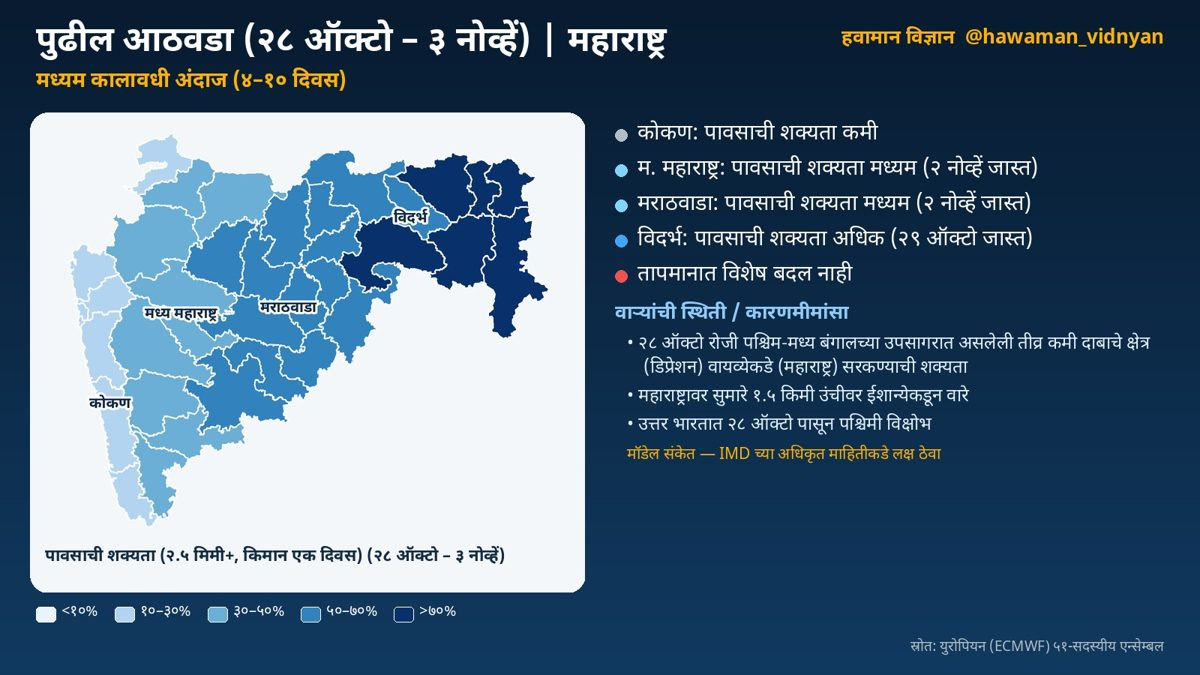
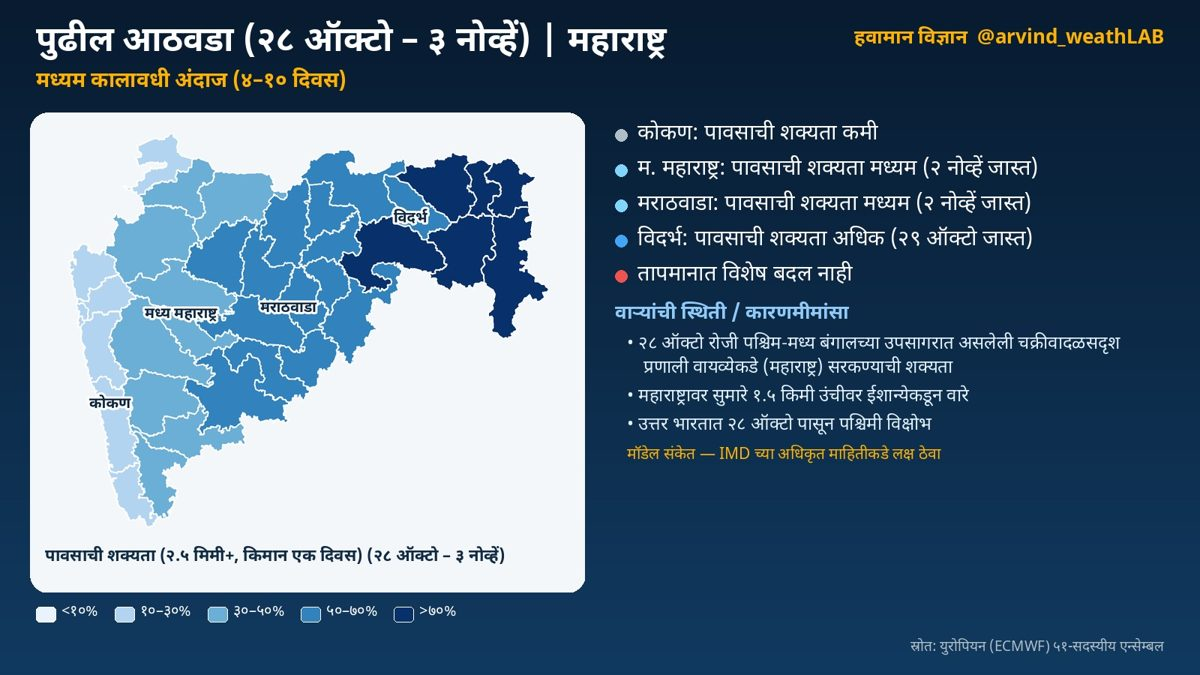
इशारा 2026-10-25 (हवामान विज्ञान)

Changed region(s): [[0.6783, 0.0311, 0.9867, 0.0933], [0.5242, 0.5289, 0.8017, 0.56], [0.8325, 0.4978, 0.9558, 0.5289]]

diff --git a/docs/alerts/2026-10-25-hawaman/index.html b/docs/alerts/2026-10-25-hawaman/index.html
@@ -8,7 +8,7 @@
   <link rel="preconnect" href="https://fonts.googleapis.com">
   <link rel="preconnect" href="https://fonts.gstatic.com" crossorigin>
   <link href="https://fonts.googleapis.com/css2?family=Mukta:wght@400;500;600;700&family=Noto+Serif+Devanagari:wght@600;700&display=swap" rel="stylesheet">
-  <link rel="stylesheet" href="../../static/css/style.css?v=74276dd4">
+  <link rel="stylesheet" href="../../static/css/style.css?v=290eacb5">
 </head>
 <body>
   <header class="site-header">
@@ -46,15 +46,15 @@
 🌦 म. महाराष्ट्र: मध्यम<br />
 🌦 मराठवाडा: मध्यम<br />
 🌧 विदर्भ: अधिक<br />
-🌀 २८ ऑक्टो रोजी पश्चिम-मध्य बंगालच्या उपसागरात असलेली तीव्र कमी दाबाचे क्षेत्र वायव्येकडे सरकण्याची शक्यता</p>
+🌀 २८ ऑक्टो रोजी पश्चिम-मध्य बंगालच्या उपसागरात असलेली चक्रीवादळसदृश प्रणाली वायव्येकडे सरकण्याची शक्यता</p>
 <p><img src="../../static/images/alerts/2026-10-25/1_card.jpg" alt="मध्यम कालावधी अंदाज" /></p>
 <h3>हवामानामागचे कारण</h3>
 <p>🌀 वाऱ्यांची स्थिती व कारणमीमांसा:<br />
-• २८ ऑक्टो रोजी पश्चिम-मध्य बंगालच्या उपसागरात असलेली तीव्र कमी दाबाचे क्षेत्र (डिप्रेशन) वायव्येकडे (महाराष्ट्र) सरकण्याची शक्यता (मॉडेल संकेत; IMD च्या अधिकृत माहितीकडे लक्ष ठेवा). या प्रणालीमुळे राज्यात ढगाळ हवामान व पावसाची शक्यता वाढू शकते</p>
-<p>• २८ ऑक्टो रोजी पूर्व भारतावर असलेली तीव्र कमी दाबाचे क्षेत्र (डिप्रेशन) नैऋत्येकडे (महाराष्ट्र) सरकण्याची शक्यता (मॉडेल संकेत; IMD च्या अधिकृत माहितीकडे लक्ष ठेवा)</p>
-<p>• महाराष्ट्रावर १ नोव्हें दरम्यान कमी दाबाचे क्षेत्र तयार होण्याचे संकेत; प्रणाली दक्षिणेकडे (पूर्व-मध्य अरबी समुद्र) सरकण्याची शक्यता<br />
-• महाराष्ट्रावर सुमारे १.५ किमी उंचीवर ईशान्येकडून वारे</p>
-<p>• उत्तर भारतात २८ ऑक्टो पासून पश्चिमी विक्षोभ; तो पुढे सरकल्यानंतर उत्तरेकडील थंड वाऱ्यांमुळे राज्यात किमान तापमानात घट होऊ शकते<br />
+• २८ ऑक्टो रोजी पश्चिम-मध्य बंगालच्या उपसागरात असलेली चक्रीवादळसदृश प्रणाली वायव्येकडे (महाराष्ट्र) सरकण्याची शक्यता (मॉडेल संकेत; IMD च्या अधिकृत माहितीकडे लक्ष ठेवा). या प्रणालीमुळे राज्यात ढगाळ हवामान व पावसाची शक्यता वाढू शकते</p>
+<p>• मध्य भारतावर २९ ऑक्टो दरम्यान तीव्र कमी दाबाचे क्षेत्र (डिप्रेशन) तयार होण्याचे संकेत (मॉडेल संकेत; IMD च्या अधिकृत माहितीकडे लक्ष ठेवा)<br />
+• पूर्व-मध्य अरबी समुद्रात २ नोव्हें दरम्यान कमी दाबाचे क्षेत्र तयार होण्याचे संकेत</p>
+<p>• महाराष्ट्रावर सुमारे १.५ किमी उंचीवर ईशान्येकडून वारे<br />
+• उत्तर भारतात २८ ऑक्टो पासून पश्चिमी विक्षोभ; तो पुढे सरकल्यानंतर उत्तरेकडील थंड वाऱ्यांमुळे राज्यात किमान तापमानात घट होऊ शकते<br />
 • पुढील काळात हवेच्या मधल्या थरातील बाष्प वाढत आहे</p>
 <p>📌 अधिक तपशील:<br />
 🌡 तापमानात विशेष बदल नाही</p>

diff --git a/docs/index.html b/docs/index.html
@@ -8,7 +8,7 @@
   <link rel="preconnect" href="https://fonts.googleapis.com">
   <link rel="preconnect" href="https://fonts.gstatic.com" crossorigin>
   <link href="https://fonts.googleapis.com/css2?family=Mukta:wght@400;500;600;700&family=Noto+Serif+Devanagari:wght@600;700&display=swap" rel="stylesheet">
-  <link rel="stylesheet" href="./static/css/style.css?v=74276dd4">
+  <link rel="stylesheet" href="./static/css/style.css?v=290eacb5">
 </head>
 <body>
   <header class="site-header">
@@ -33,7 +33,7 @@
   <main class="wrap main">
 <section class="hero">
   <div class="hero-photo">
-    <img src="./static/images/profile.jpg?v=74276dd4" alt="अरविंद पागिरे" width="200" height="200">
+    <img src="./static/images/profile.jpg?v=290eacb5" alt="अरविंद पागिरे" width="200" height="200">
   </div>
   <div class="hero-text">
     <p class="eyebrow">हवामानशास्त्रज्ञ · AI-आधारित हवामान अंदाज · हायब्रिड मॉडेलिंग</p>

diff --git a/docs/about/index.html b/docs/about/index.html
@@ -8,7 +8,7 @@
   <link rel="preconnect" href="https://fonts.googleapis.com">
   <link rel="preconnect" href="https://fonts.gstatic.com" crossorigin>
   <link href="https://fonts.googleapis.com/css2?family=Mukta:wght@400;500;600;700&family=Noto+Serif+Devanagari:wght@600;700&display=swap" rel="stylesheet">
-  <link rel="stylesheet" href="../static/css/style.css?v=74276dd4">
+  <link rel="stylesheet" href="../static/css/style.css?v=290eacb5">
 </head>
 <body>
   <header class="site-header">

diff --git a/docs/alerts/index.html b/docs/alerts/index.html
@@ -8,7 +8,7 @@
   <link rel="preconnect" href="https://fonts.googleapis.com">
   <link rel="preconnect" href="https://fonts.gstatic.com" crossorigin>
   <link href="https://fonts.googleapis.com/css2?family=Mukta:wght@400;500;600;700&family=Noto+Serif+Devanagari:wght@600;700&display=swap" rel="stylesheet">
-  <link rel="stylesheet" href="../static/css/style.css?v=74276dd4">
+  <link rel="stylesheet" href="../static/css/style.css?v=290eacb5">
 </head>
 <body>
   <header class="site-header">

diff --git a/docs/blog/index.html b/docs/blog/index.html
@@ -8,7 +8,7 @@
   <link rel="preconnect" href="https://fonts.googleapis.com">
   <link rel="preconnect" href="https://fonts.gstatic.com" crossorigin>
   <link href="https://fonts.googleapis.com/css2?family=Mukta:wght@400;500;600;700&family=Noto+Serif+Devanagari:wght@600;700&display=swap" rel="stylesheet">
-  <link rel="stylesheet" href="../static/css/style.css?v=74276dd4">
+  <link rel="stylesheet" href="../static/css/style.css?v=290eacb5">
 </head>
 <body>
   <header class="site-header">

diff --git a/docs/contact/index.html b/docs/contact/index.html
@@ -8,7 +8,7 @@
   <link rel="preconnect" href="https://fonts.googleapis.com">
   <link rel="preconnect" href="https://fonts.gstatic.com" crossorigin>
   <link href="https://fonts.googleapis.com/css2?family=Mukta:wght@400;500;600;700&family=Noto+Serif+Devanagari:wght@600;700&display=swap" rel="stylesheet">
-  <link rel="stylesheet" href="../static/css/style.css?v=74276dd4">
+  <link rel="stylesheet" href="../static/css/style.css?v=290eacb5">
 </head>
 <body>
   <header class="site-header">

diff --git a/docs/publications/index.html b/docs/publications/index.html
@@ -8,7 +8,7 @@
   <link rel="preconnect" href="https://fonts.googleapis.com">
   <link rel="preconnect" href="https://fonts.gstatic.com" crossorigin>
   <link href="https://fonts.googleapis.com/css2?family=Mukta:wght@400;500;600;700&family=Noto+Serif+Devanagari:wght@600;700&display=swap" rel="stylesheet">
-  <link rel="stylesheet" href="../static/css/style.css?v=74276dd4">
+  <link rel="stylesheet" href="../static/css/style.css?v=290eacb5">
 </head>
 <body>
   <header class="site-header">

diff --git a/docs/404.html b/docs/404.html
@@ -8,7 +8,7 @@
   <link rel="preconnect" href="https://fonts.googleapis.com">
   <link rel="preconnect" href="https://fonts.gstatic.com" crossorigin>
   <link href="https://fonts.googleapis.com/css2?family=Mukta:wght@400;500;600;700&family=Noto+Serif+Devanagari:wght@600;700&display=swap" rel="stylesheet">
-  <link rel="stylesheet" href="./static/css/style.css?v=74276dd4">
+  <link rel="stylesheet" href="./static/css/style.css?v=290eacb5">
 </head>
 <body>
   <header class="site-header">

diff --git a/content/alerts/2026-10-25-hawaman.md b/content/alerts/2026-10-25-hawaman.md
@@ -15,20 +15,19 @@ source: hawaman-vidnyan
 🌦 म. महाराष्ट्र: मध्यम  
 🌦 मराठवाडा: मध्यम  
 🌧 विदर्भ: अधिक  
-🌀 २८ ऑक्टो रोजी पश्चिम-मध्य बंगालच्या उपसागरात असलेली तीव्र कमी दाबाचे क्षेत्र वायव्येकडे सरकण्याची शक्यता
+🌀 २८ ऑक्टो रोजी पश्चिम-मध्य बंगालच्या उपसागरात असलेली चक्रीवादळसदृश प्रणाली वायव्येकडे सरकण्याची शक्यता
 
 ![मध्यम कालावधी अंदाज](../../static/images/alerts/2026-10-25/1_card.jpg)
 
 ### हवामानामागचे कारण
 
 🌀 वाऱ्यांची स्थिती व कारणमीमांसा:  
-• २८ ऑक्टो रोजी पश्चिम-मध्य बंगालच्या उपसागरात असलेली तीव्र कमी दाबाचे क्षेत्र (डिप्रेशन) वायव्येकडे (महाराष्ट्र) सरकण्याची शक्यता (मॉडेल संकेत; IMD च्या अधिकृत माहितीकडे लक्ष ठेवा). या प्रणालीमुळे राज्यात ढगाळ हवामान व पावसाची शक्यता वाढू शकते
+• २८ ऑक्टो रोजी पश्चिम-मध्य बंगालच्या उपसागरात असलेली चक्रीवादळसदृश प्रणाली वायव्येकडे (महाराष्ट्र) सरकण्याची शक्यता (मॉडेल संकेत; IMD च्या अधिकृत माहितीकडे लक्ष ठेवा). या प्रणालीमुळे राज्यात ढगाळ हवामान व पावसाची शक्यता वाढू शकते
 
-• २८ ऑक्टो रोजी पूर्व भारतावर असलेली तीव्र कमी दाबाचे क्षेत्र (डिप्रेशन) नैऋत्येकडे (महाराष्ट्र) सरकण्याची शक्यता (मॉडेल संकेत; IMD च्या अधिकृत माहितीकडे लक्ष ठेवा)
+• मध्य भारतावर २९ ऑक्टो दरम्यान तीव्र कमी दाबाचे क्षेत्र (डिप्रेशन) तयार होण्याचे संकेत (मॉडेल संकेत; IMD च्या अधिकृत माहितीकडे लक्ष ठेवा)  
+• पूर्व-मध्य अरबी समुद्रात २ नोव्हें दरम्यान कमी दाबाचे क्षेत्र तयार होण्याचे संकेत
 
-• महाराष्ट्रावर १ नोव्हें दरम्यान कमी दाबाचे क्षेत्र तयार होण्याचे संकेत; प्रणाली दक्षिणेकडे (पूर्व-मध्य अरबी समुद्र) सरकण्याची शक्यता  
-• महाराष्ट्रावर सुमारे १.५ किमी उंचीवर ईशान्येकडून वारे
-
+• महाराष्ट्रावर सुमारे १.५ किमी उंचीवर ईशान्येकडून वारे  
 • उत्तर भारतात २८ ऑक्टो पासून पश्चिमी विक्षोभ; तो पुढे सरकल्यानंतर उत्तरेकडील थंड वाऱ्यांमुळे राज्यात किमान तापमानात घट होऊ शकते  
 • पुढील काळात हवेच्या मधल्या थरातील बाष्प वाढत आहे
 
